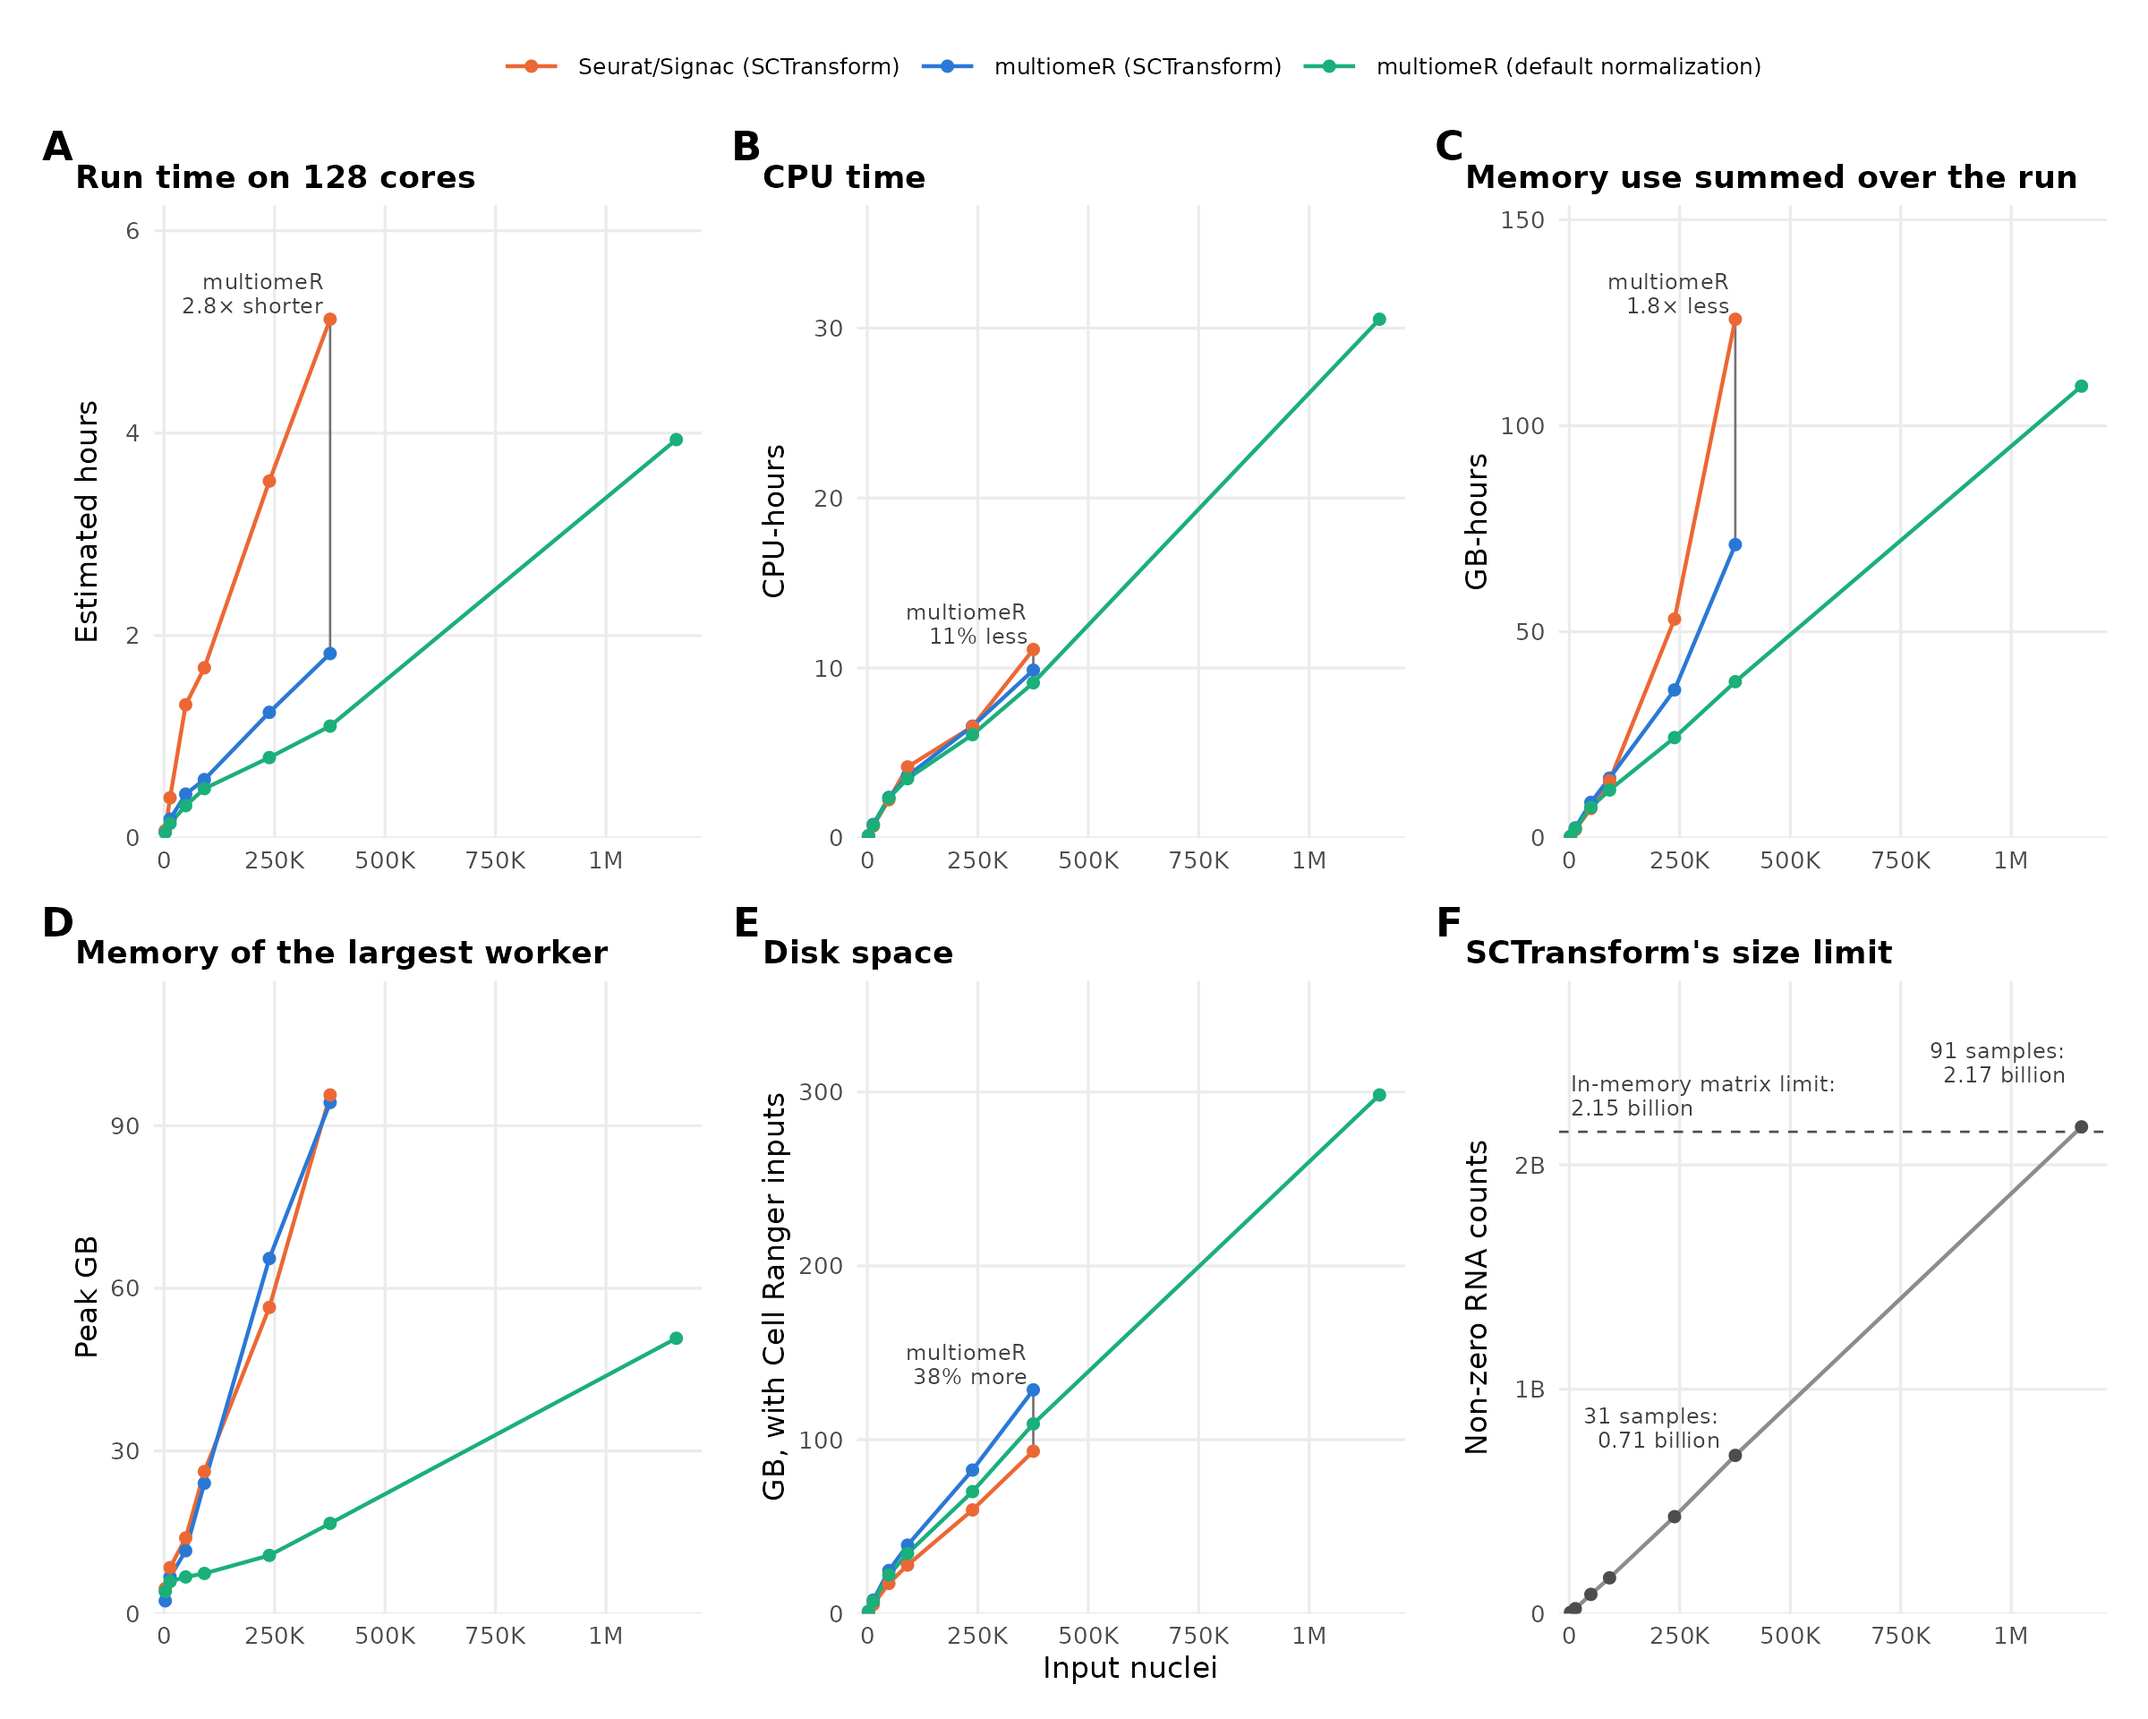
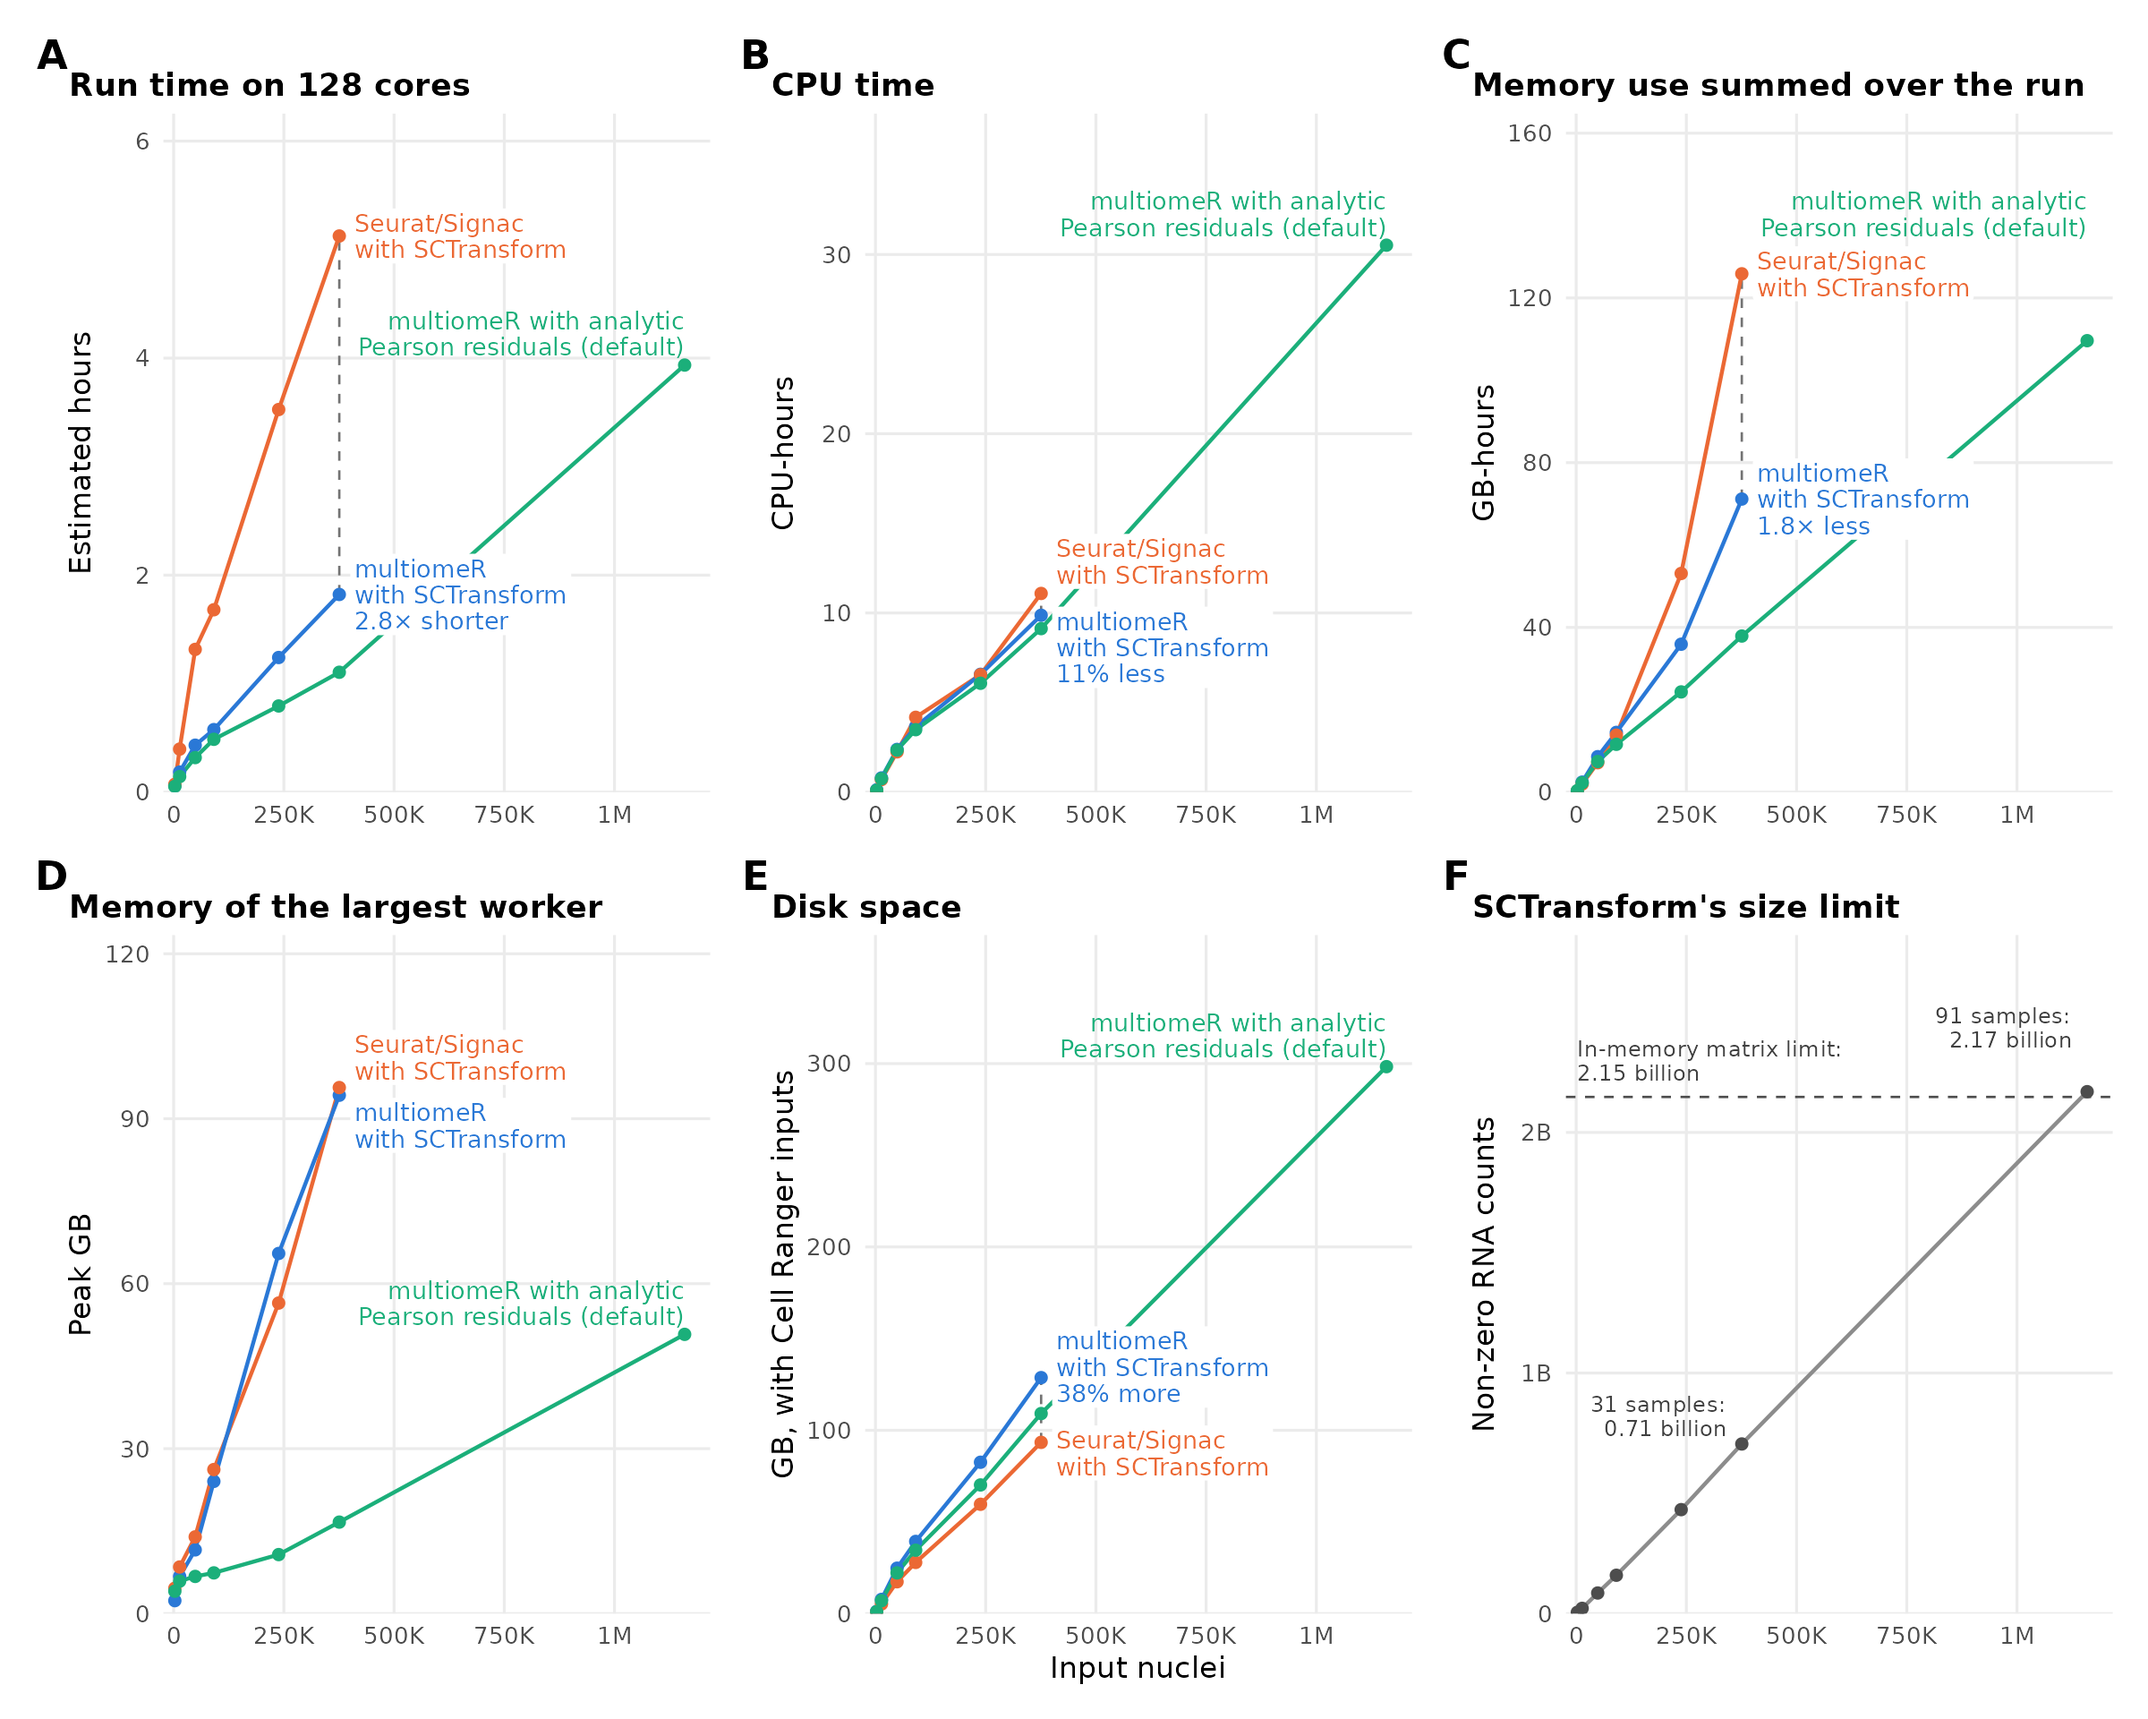
Name each workflow's line inside S2's panels
S2's like-for-like panels identified the three workflows only through a colour
legend above the figure. As in the preprint's S2, each line is now named in
its colour beside its last point, by normalization method: Seurat/Signac with
SCTransform, multiomeR with SCTransform, and multiomeR with analytic Pearson
residuals (default). multiomeR with SCTransform's name also gives its
difference from Seurat/Signac at 31 samples, at the dashed line between
them. The SCTransform names sit right of their last point on a white box that
masks the default line where it passes, and move apart when they would
overlap. The default name sits above and left of its last point, or above the
other names if it would overlap one. The legend row is gone. S3 and S4 are
unchanged.

cascading_target_breaking: supplementary_figures_S2_S4_plots

diff --git a/pipeline_manuscript_figures/README.md b/pipeline_manuscript_figures/README.md
@@ -150,9 +150,11 @@ at that size in either workflow: Seurat converts the joined count matrix to a
 `dgCMatrix`, which holds at most 2^31 - 1 non-zero entries, and `sizing_91x` has
 2.17 billion. S2F shows each size's RNA non-zero entries against that limit, the
 genes detected in each called nucleus summed from Cell Ranger's per-barcode
-metrics. They equal the count in Seurat's error. S2A-E label how multiomeR on
-SCTransform differs from the conventional chain at 31 samples: as a fold
-difference from 1.5-fold, as a percentage below it, and not at all under 10%.
+metrics. They equal the count in Seurat's error. S2A-E name each workflow's
+line in its colour beside its last point, by normalization method. multiomeR on
+SCTransform's name adds how it differs from the conventional chain at 31
+samples: as a fold difference from 1.5-fold, as a percentage below it, and not
+at all under 10%.
 
 ### Sizing
 
